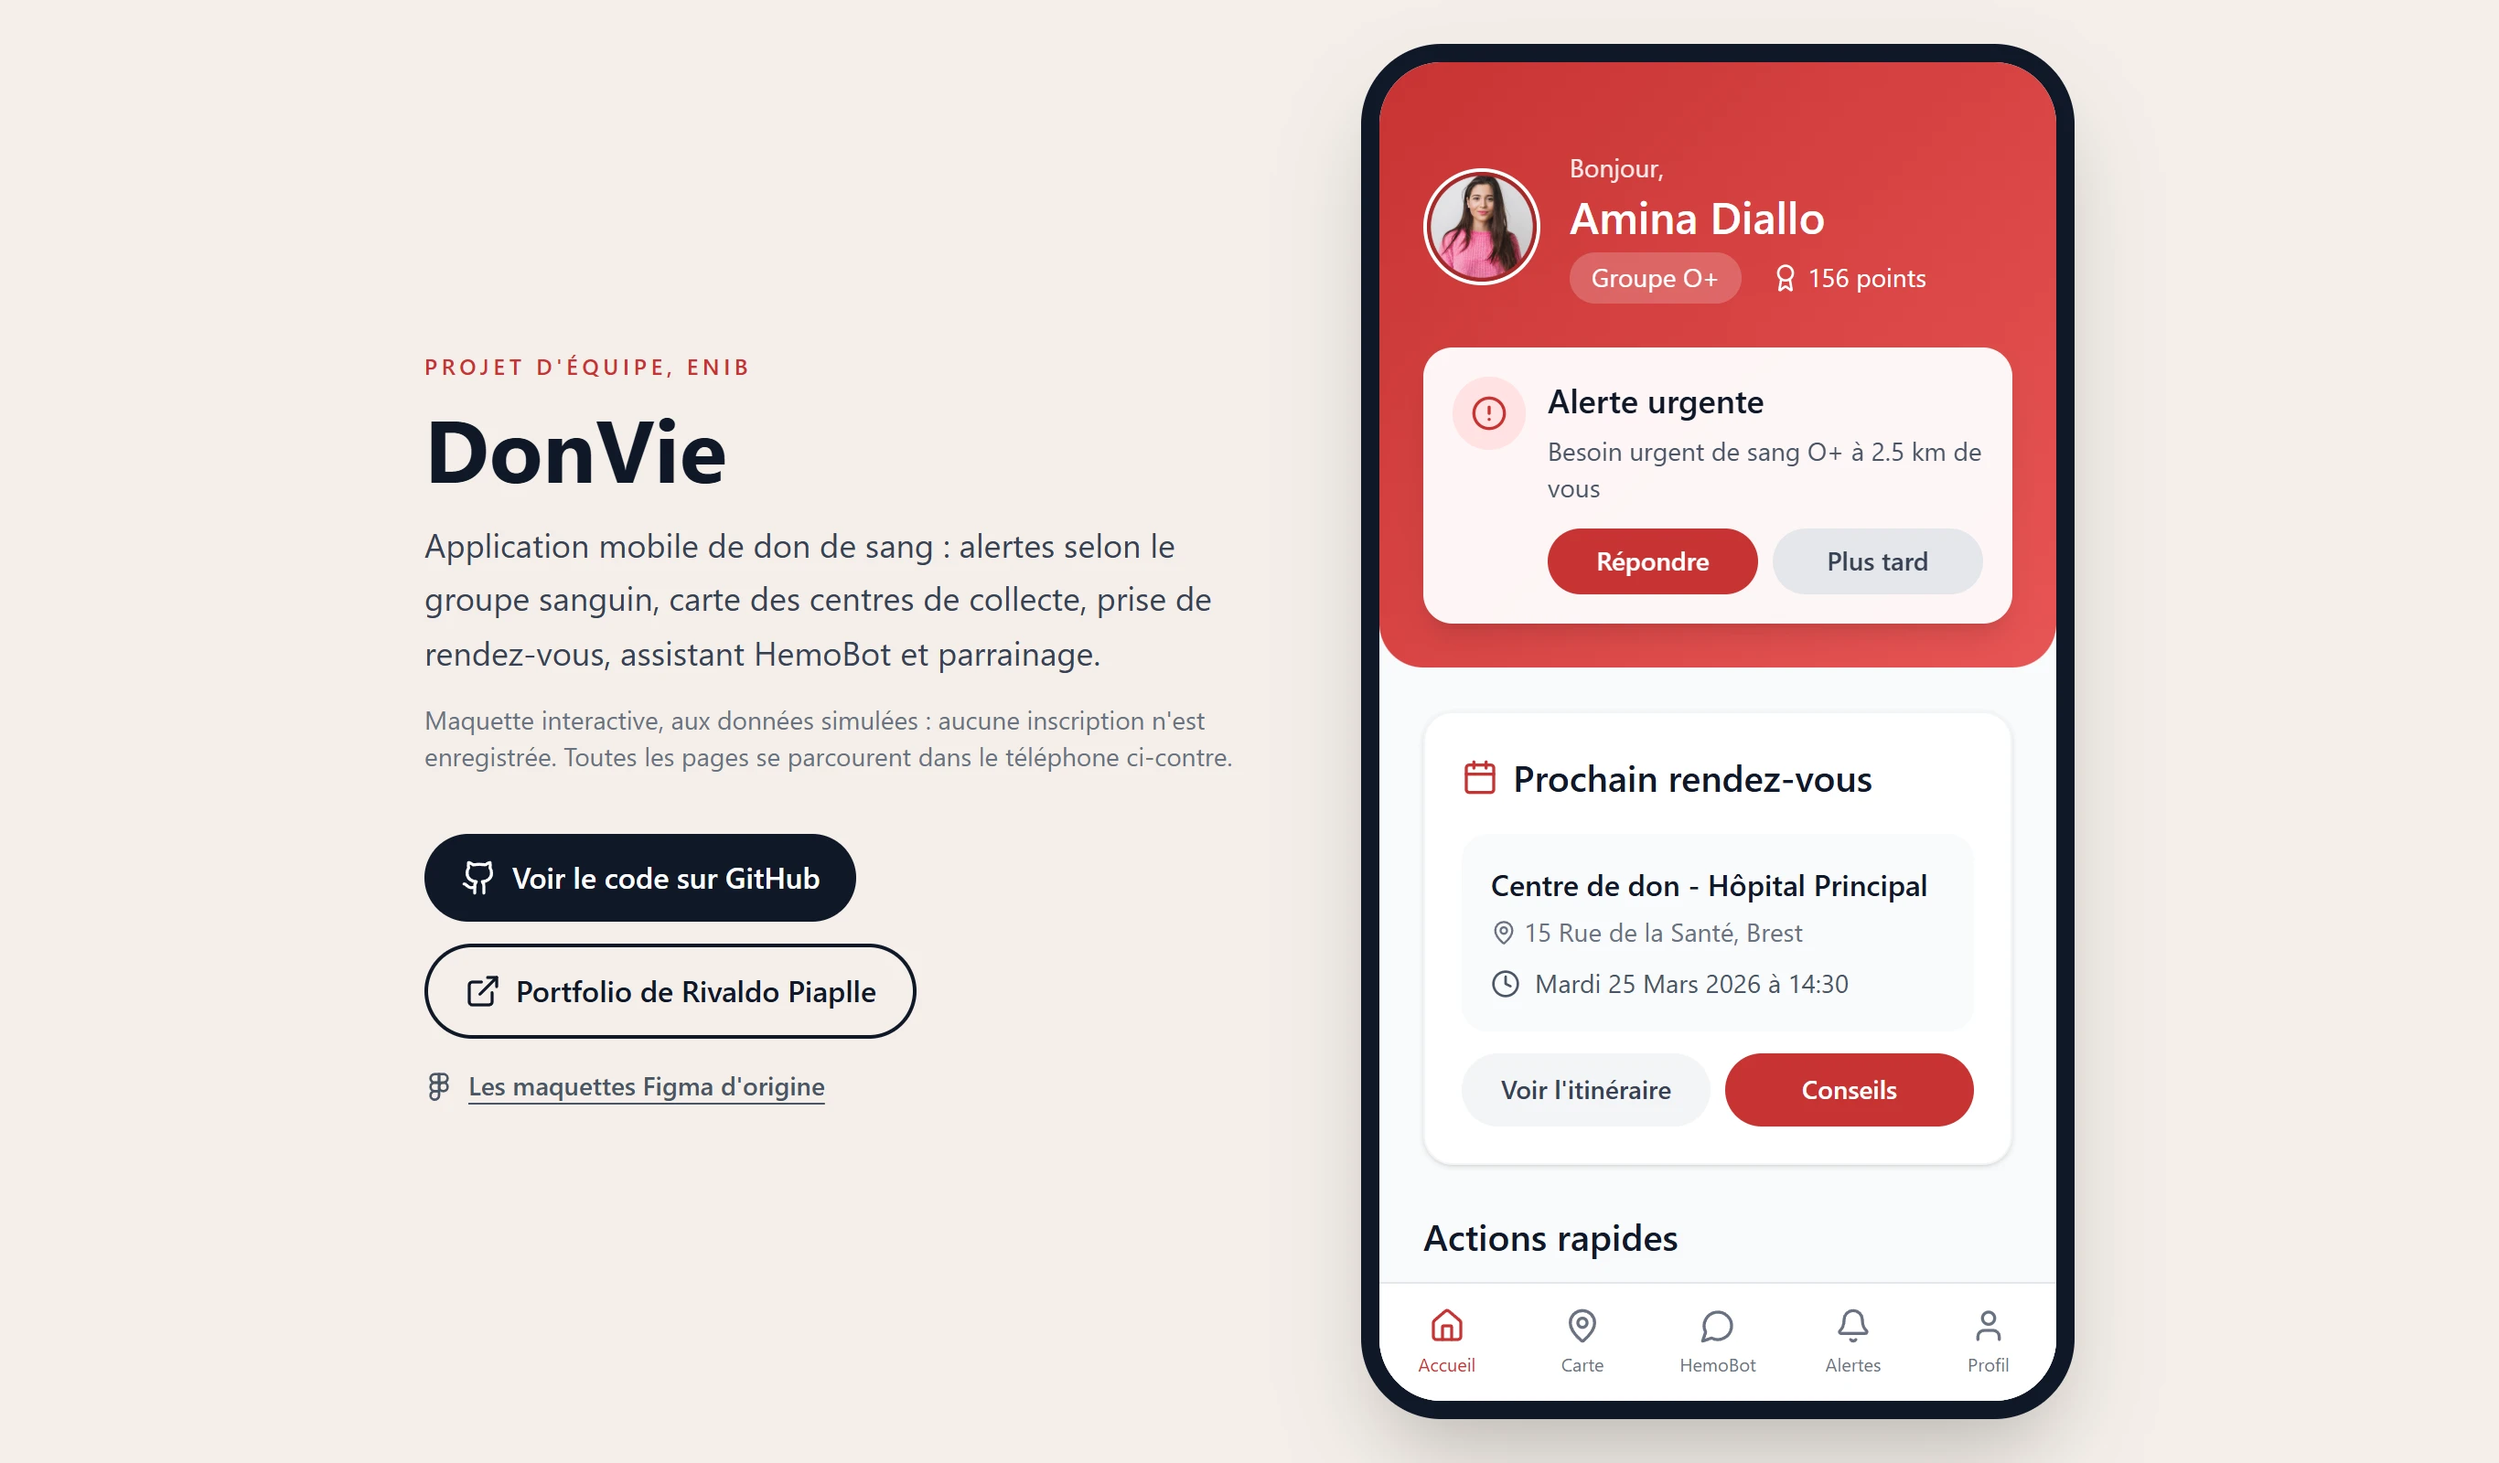
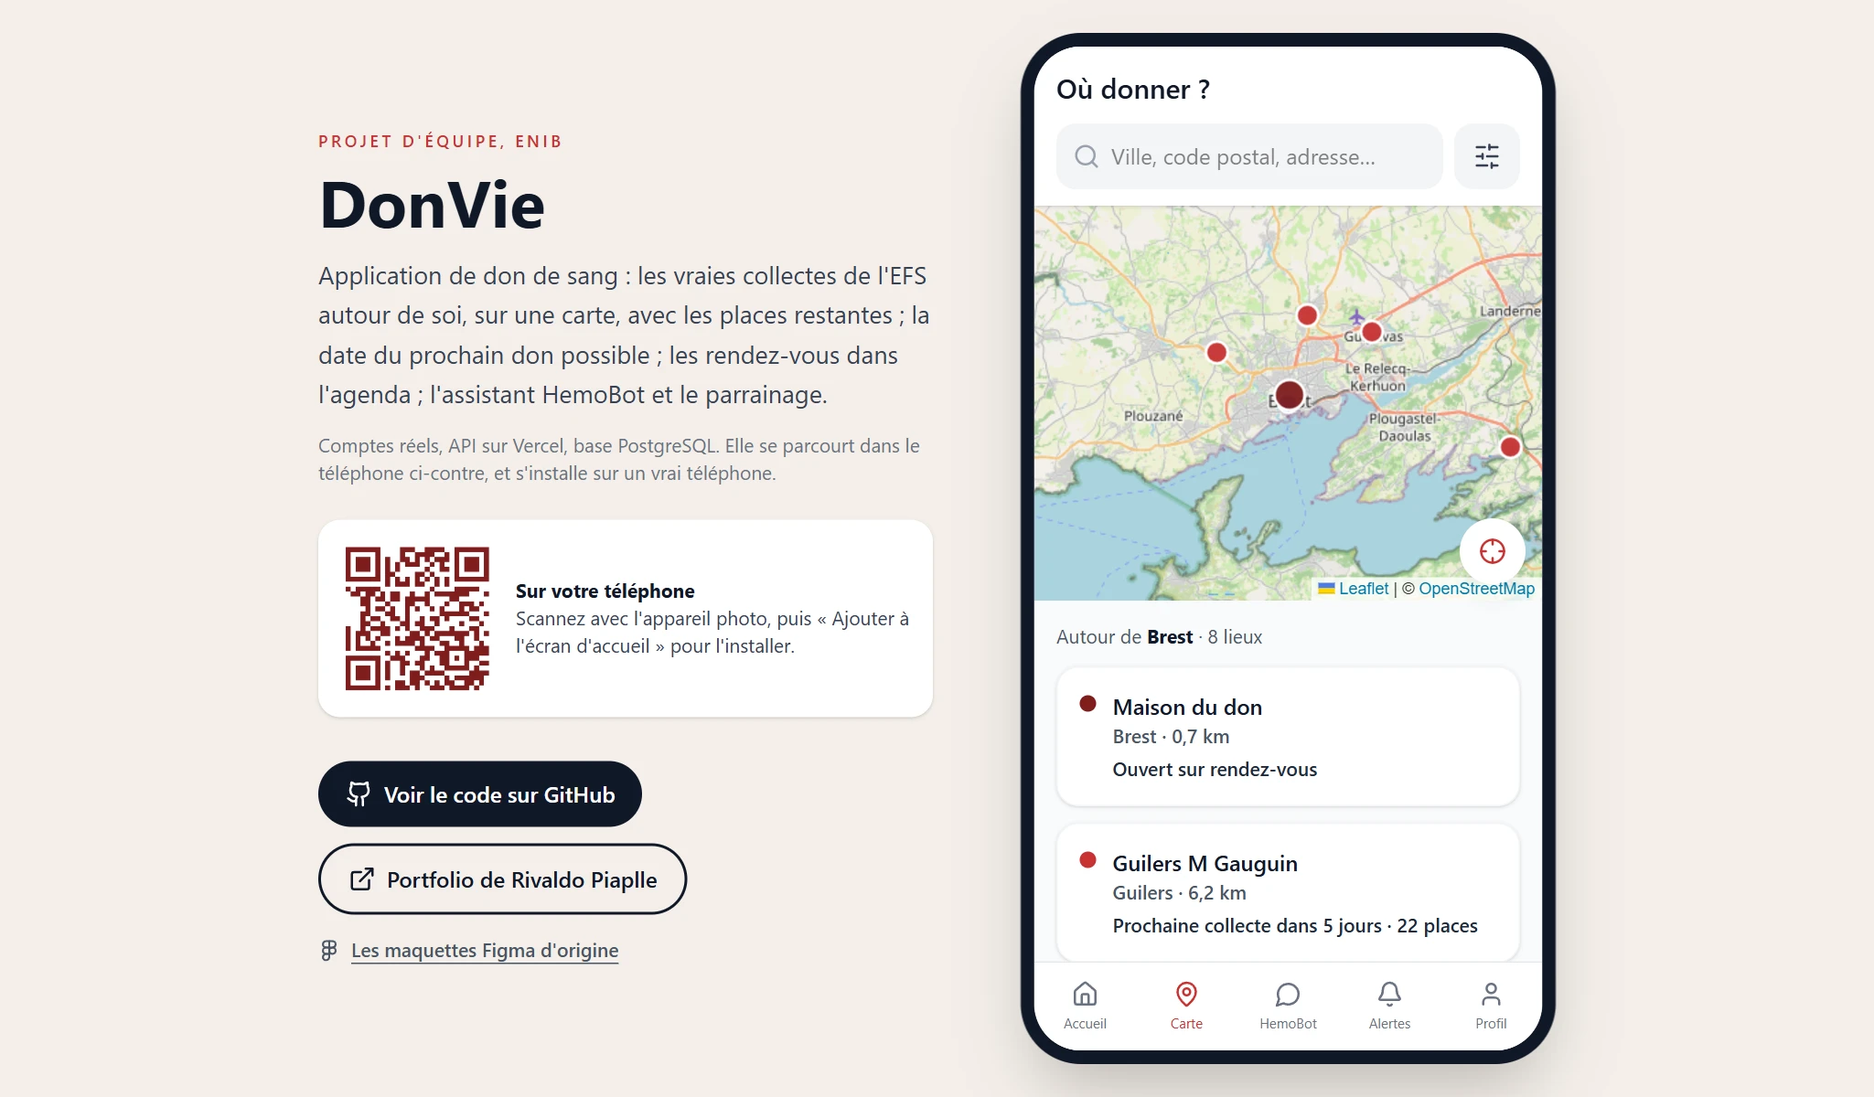
DonVie, vraie application ; chaîne CI/CD jusqu'à la production
DonVie : les collectes réelles de l'EFS, comptes, dons, rendez-vous,
quatre captures de l'application, l'essai de la production en preuve.
Chaîne CI/CD : le cinquième étage met en ligne l'image du commit.

diff --git a/src/projets/donvie/fiche.ts b/src/projets/donvie/fiche.ts
@@ -2,21 +2,25 @@ import type { Projet } from "../types";
 import carteMentale from "./carte-mentale.webp";
 import croquis from "./croquis-accueil.webp";
 import ecranAccueil from "./ecran-accueil.webp";
-import ecranBienvenue from "./ecran-bienvenue.webp";
 import enLigne from "./en-ligne.webp";
 import logo from "./logo.webp";
 import prototype from "./prototype-parcours.jpg";
+import appAccueil from "./app-accueil.webp";
+import appCarte from "./app-carte.webp";
+import appFiche from "./app-fiche-lieu.webp";
+import appRdv from "./app-rendez-vous.webp";
 
 const DEPOT = "https://github.com/rivaldopiaplle-boop/donvie";
 const CHAINE = `${DEPOT}/actions/workflows/ci.yml`;
+const PRODUCTION = `${DEPOT}/actions/workflows/production.yml`;
 
 const fiche: Projet = {
   slug: "donvie",
   ordre: 40,
   titre: "DonVie",
-  accroche: "Connecter les donneurs de sang aux centres de collecte, de la carte mentale à l'interface mobile, en ligne.",
+  accroche: "Les vraies collectes de sang de l'EFS autour de soi, la date de son prochain don, ses rendez-vous : une application installable, de la carte mentale à la production.",
   resume:
-    "Application de don de sang, web et mobile, menée en équipe à l'ENIB. Tout part d'une question : comment rapprocher des donneurs et des centres qui ont besoin d'eux, au bon moment ? La conception a précédé le code (idéation, personas, croquis, maquettes, prototype Figma évalué), puis l'interface a été développée en React et TypeScript, et mise en ligne sur Vercel. Le service qui la fera vivre, API et base de données, reste à écrire : la feuille de route le dit.",
+    "Application de don de sang menée en équipe à l'ENIB. La conception a précédé le code (idéation, personas, croquis, maquettes, prototype Figma évalué). L'application réelle s'appuie sur les données ouvertes de l'Établissement français du sang : lieux et dates de collecte, places restantes, lien de réservation. Elle calcule la date du prochain don possible, garde les rendez-vous dans l'agenda, se partage, s'installe sur un téléphone, et répond aux questions par un assistant Mistral. Interface React, API serveur sur Vercel, base PostgreSQL chez Neon.",
   categorie: "applications",
   statut: "en-ligne",
   annee: "2025-2026",
@@ -24,16 +28,24 @@ const fiche: Projet = {
   equipe: "Projet d'équipe",
   couleur: "#c62f3b",
   logo,
-  couverture: { src: ecranBienvenue, alt: "Écran d'accueil de DonVie : inscription et chiffres clés", format: "mobile" },
+  couverture: { src: appCarte, alt: "DonVie : la carte des collectes de l'EFS autour de Brest", format: "mobile" },
   galerie: [
-    { src: ecranBienvenue, alt: "Écran de bienvenue", legende: "Bienvenue : la promesse, les chiffres, l'inscription", format: "mobile" },
-    { src: ecranAccueil, alt: "Accueil du donneur", legende: "Accueil : urgence à proximité, prochain don, centres proches", format: "mobile" },
-    { src: enLigne, alt: "DonVie en ligne sur ordinateur, dans un cadre de téléphone", legende: "En ligne : sur ordinateur, l'application dans un cadre de téléphone, à côté du projet et de ses liens", format: "ecran" },
+    { src: appCarte, alt: "Carte des collectes", legende: "La carte : les vraies collectes de l'EFS autour de soi, avec les places restantes", format: "mobile" },
+    { src: appFiche, alt: "Fiche d'un lieu de collecte", legende: "Un lieu : prochaines collectes, réservation EFS, itinéraire, partage, rendez-vous gardé", format: "mobile" },
+    { src: appAccueil, alt: "Accueil d'un donneur connecté", legende: "L'accueil : prochain don possible, prochain rendez-vous, collectes qui manquent de donneurs", format: "mobile" },
+    { src: appRdv, alt: "Mes rendez-vous", legende: "Les rendez-vous : confirmation sur le site de l'EFS, agenda avec rappel, itinéraire", format: "mobile" },
+    { src: enLigne, alt: "DonVie sur ordinateur, dans un cadre de téléphone, avec un QR code", legende: "Sur ordinateur : l'application dans un cadre de téléphone, et un QR code pour l'ouvrir au téléphone", format: "ecran" },
+    { src: ecranAccueil, alt: "Maquette de l'accueil", legende: "La maquette d'origine, avant les vraies données", format: "mobile" },
     { src: croquis, alt: "Croquis papier de l'accueil", legende: "Croquis : le même écran, au crayon, avant toute maquette", format: "mobile" },
     { src: carteMentale, alt: "Carte mentale d'idéation", legende: "Idéation : six axes autour de la question de départ", format: "schema" },
     { src: prototype, alt: "Parcours du prototype Figma", legende: "Prototype : les écrans reliés par leurs interactions", format: "schema" },
   ],
-  stack: ["figma", "react", "typescript", "vite", "tailwind", "githubactions", "vercel"],
+  stack: ["figma", "react", "typescript", "vite", "tailwind", "leaflet", "postgresql", "neon", "vercel", "mistral", "vitest", "githubactions"],
+  chiffres: [
+    { valeur: 8, libelle: "routes d'API : comptes, dons, rendez-vous, collectes, HemoBot" },
+    { valeur: 11, libelle: "essais de bout en bout rejoués sur la production à chaque déploiement" },
+    { valeur: 1, libelle: "heure : la fraîcheur des données de l'EFS" },
+  ],
   probleme:
     "Les centres de collecte manquent de sang au moment où ils en ont besoin, et les donneurs ne savent ni où aller, ni quand ils peuvent redonner. Entre les deux, aucun outil simple.",
   solution:
@@ -50,37 +62,33 @@ const fiche: Projet = {
       ],
     },
     {
-      titre: "Le développement, en équipe",
-      texte: "De février à avril 2026, en équipe, sous Git.",
+      titre: "De la maquette à une vraie application",
+      texte: "La première version, issue de Figma Make, affichait des données écrites en dur. Chaque bouton fait désormais ce pour quoi il a été dessiné.",
       points: [
-        "Interface React et TypeScript, dessinée d'abord pour le téléphone",
-        "Six parcours : bienvenue, inscription, carte des centres, profil, parrainage, assistant de conversation",
-        "Composants réutilisables et thème partagé, repris des maquettes Figma",
-        "Données encore simulées côté navigateur, en attendant le service",
+        "Les collectes réelles de l'EFS, interrogées côté serveur, normalisées et gardées une heure en cache",
+        "Carte OpenStreetMap, recherche d'adresse par la Base adresse nationale, localisation du téléphone, filtres",
+        "Date du prochain don selon les délais de l'EFS (8 semaines entre deux dons de sang, plafond annuel, plasma, plaquettes), testée",
+        "Rendez-vous gardés, fichier d'agenda avec rappel, itinéraire, partage par la feuille native du téléphone",
+        "HemoBot par Mistral AI, parrainage avec code, lien et QR code, suppression du compte en un geste",
+        "Installable sur un téléphone (manifeste, service worker) ; sur ordinateur, un QR code pour l'ouvrir au téléphone",
       ],
     },
     {
-      titre: "La mise en ligne, et le ménage avant",
-      texte: "L'export de Figma Make livrait bien plus de code que l'application n'en utilise.",
+      titre: "Sécurité et vérification",
       points: [
-        "48 composants d'interface, 14 images et une trentaine de dépendances jamais importés, retirés : 89 paquets à installer",
-        "Sur téléphone, l'application en plein écran ; sur ordinateur, dans un cadre de téléphone, à côté du projet et de ses liens",
-        "Une chaîne GitHub Actions construit chaque poussée avec les dépendances verrouillées, comme Vercel",
+        "Mots de passe hachés par scrypt, session dans un cookie HttpOnly signé, requêtes SQL paramétrées et limitées à leur auteur",
+        "Limitation de débit sur l'inscription, la connexion et l'assistant ; politique de contenu stricte et HSTS",
+        "Chaque poussée : imports, types, tests des règles de don et des données de l'EFS, construction",
+        "Chaque déploiement en production : l'API parcourue de bout en bout sur l'adresse publique, compte d'essai créé puis supprimé",
+        "Deux défauts trouvés ainsi et corrigés : un import sans extension qui ne cassait qu'en production, une requête SQL ambiguë",
       ],
-    },
-  ],
-  feuilleDeRoute: [
-    {
-      titre: "L'API et la base de données",
-      detail: "Rendez-vous, notifications et historique des dons demandent un service et une base : ils n'existent pas encore. Node.js et MySQL sont la piste retenue.",
-      etat: "prevu",
     },
   ],
   demos: [
     {
       libelle: "L'application en ligne",
       url: "https://donvie-rivaldo.vercel.app",
-      detail: "Maquette interactive aux données simulées : tous les écrans se parcourent",
+      detail: "Les vraies collectes de l'EFS ; avec ou sans compte. Sur téléphone, elle s'installe",
       support: "mobile",
     },
     {
@@ -93,11 +101,22 @@ const fiche: Projet = {
     {
       libelle: "La chaîne de construction",
       url: `${CHAINE}?query=branch%3Amain`,
-      detail: "Installation verrouillée et construction, à chaque poussée",
+      detail: "Imports, types, tests et construction, à chaque poussée",
       badge: `${CHAINE}/badge.svg?branch=main`,
     },
+    {
+      libelle: "L'essai de la production",
+      url: PRODUCTION,
+      detail: "Après chaque déploiement, l'API parcourue de bout en bout sur l'adresse publique",
+      badge: `${PRODUCTION}/badge.svg`,
+    },
+    {
+      libelle: "Les documents de conception de l'équipe",
+      url: `${DEPOT}/tree/main/docs/conception-equipe`,
+      detail: "Croquis, maquette filaire, persona, source Figma",
+    },
   ],
-  depots: [{ libelle: "Application mobile (React)", url: DEPOT, visibilite: "public" }],
+  depots: [{ libelle: "Application, API et conception", url: DEPOT, visibilite: "public" }],
 };
 
 export default fiche;

diff --git a/src/projets/chaine-cicd-conteneurs/fiche.ts b/src/projets/chaine-cicd-conteneurs/fiche.ts
@@ -8,9 +8,9 @@ const fiche: Projet = {
   slug: "chaine-cicd-conteneurs",
   ordre: 30,
   titre: "Chaîne CI/CD multi-conteneurs",
-  accroche: "Quatre étages qui vérifient vraiment : 22 tests, pile montée en conteneurs, charge k6 avec seuils et parcours d'un visiteur rejoué dans Chrome.",
+  accroche: "Cinq étages, du git push à la production : 22 tests, pile montée en conteneurs, charge k6 avec seuils, parcours rejoué dans Chrome, puis mise en ligne de l'image vérifiée.",
   resume:
-    "Une chaîne GitHub Actions en quatre étages, et l'application qu'elle vérifie : un suivi de tâches complet, front statique servi par nginx, API .NET 10 et base MySQL. On y crée, coche, filtre et supprime, et les compteurs sont calculés par la base. Chaque étage de la chaîne ne part que si le précédent est vert, l'intégration monte la pile entière par docker compose, et les images ne sont publiées que depuis main, étiquetées par le hash du commit. La pile se lance en une commande sur n'importe quel poste (node demarrer.mjs), et tourne en ligne sur Render, avec une base MySQL chez Aiven.",
+    "Une chaîne GitHub Actions en cinq étages, et l'application qu'elle vérifie : un suivi de tâches complet, front statique servi par nginx, API .NET 10 et base MySQL. On y crée, coche, filtre et supprime, et les compteurs sont calculés par la base. Chaque étage de la chaîne ne part que si le précédent est vert, l'intégration monte la pile entière par docker compose, et les images ne sont publiées que depuis main, étiquetées par le hash du commit. La pile se lance en une commande sur n'importe quel poste (node demarrer.mjs), et tourne en ligne sur Render, avec une base MySQL chez Aiven.",
   categorie: "devops",
   statut: "en-ligne",
   annee: "2026",
@@ -27,7 +27,7 @@ const fiche: Projet = {
   ],
   stack: ["githubactions", "docker", "dotnet", "mysql", "nginx", "k6", "puppeteer", "node", "render", "aiven"],
   chiffres: [
-    { valeur: 4, libelle: "étages, chacun conditionné au précédent" },
+    { valeur: 5, libelle: "étages, du git push à la production" },
     { valeur: 22, libelle: "tests : 16 contre une vraie base, 6 sur les règles du front" },
     { valeur: 10, libelle: "utilisateurs simultanés sous k6" },
     { valeur: 1, libelle: "commande pour monter la pile entière" },
@@ -38,12 +38,13 @@ const fiche: Projet = {
     "Donner à chaque étage un travail réel : des règles testées côté front, des tests d'API contre une vraie base MySQL, la pile entière montée en conteneurs puis mise sous charge avec des seuils, et le parcours d'un visiteur rejoué dans un vrai Chrome.",
   sections: [
     {
-      titre: "Quatre étages, chacun conditionné au précédent",
+      titre: "Cinq étages, chacun conditionné au précédent",
       points: [
         "Front : les règles d'affichage sous node --test",
         "Back : tests des règles, puis tests d'API contre un service MySQL doté d'une sonde de santé",
         "Intégration : pile montée par docker compose, schéma appliqué, charge k6 avec seuils, parcours Chrome",
         "Images front et back construites en matrice, poussées sur GHCR uniquement depuis main",
+        "Mise en ligne : Render tire l'image exacte du commit par ses crochets de déploiement",
         "Mot de passe de la base injecté par les secrets GitHub, jamais écrit dans le dépôt",
       ],
     },
